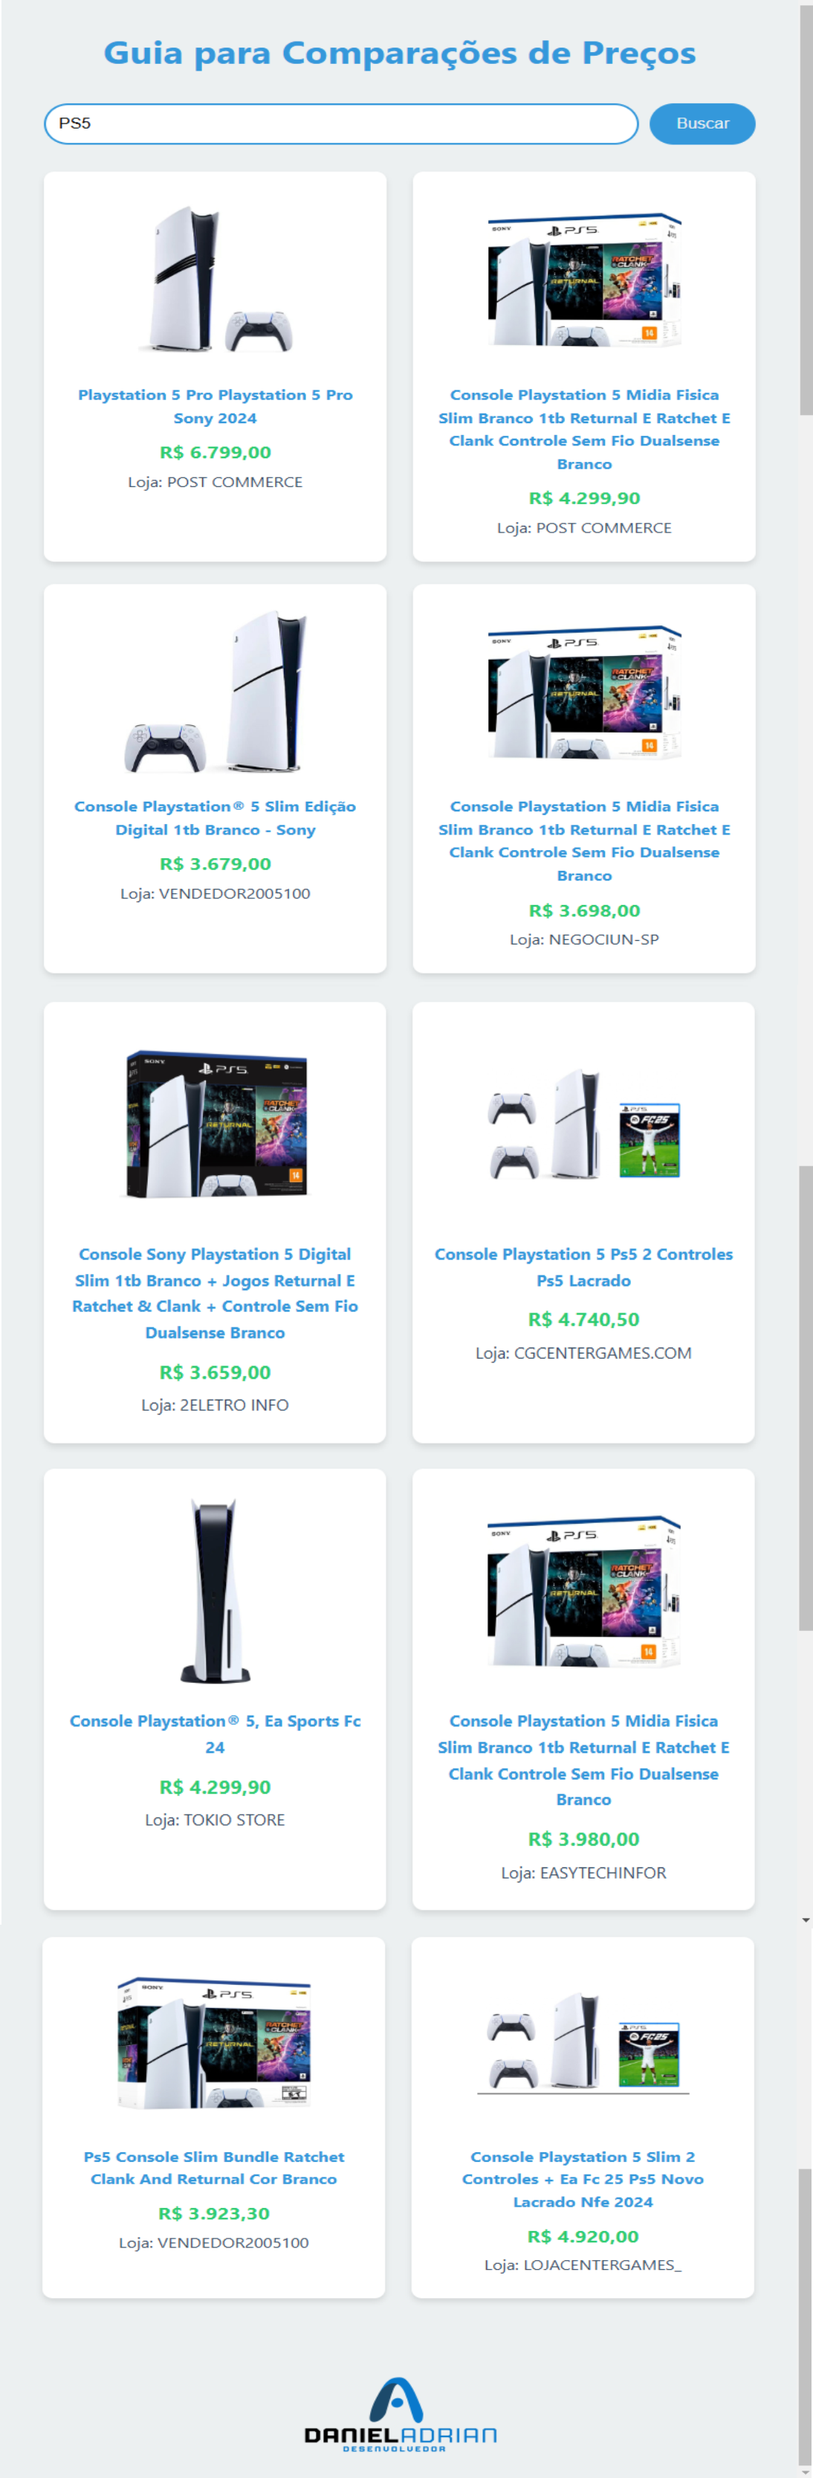
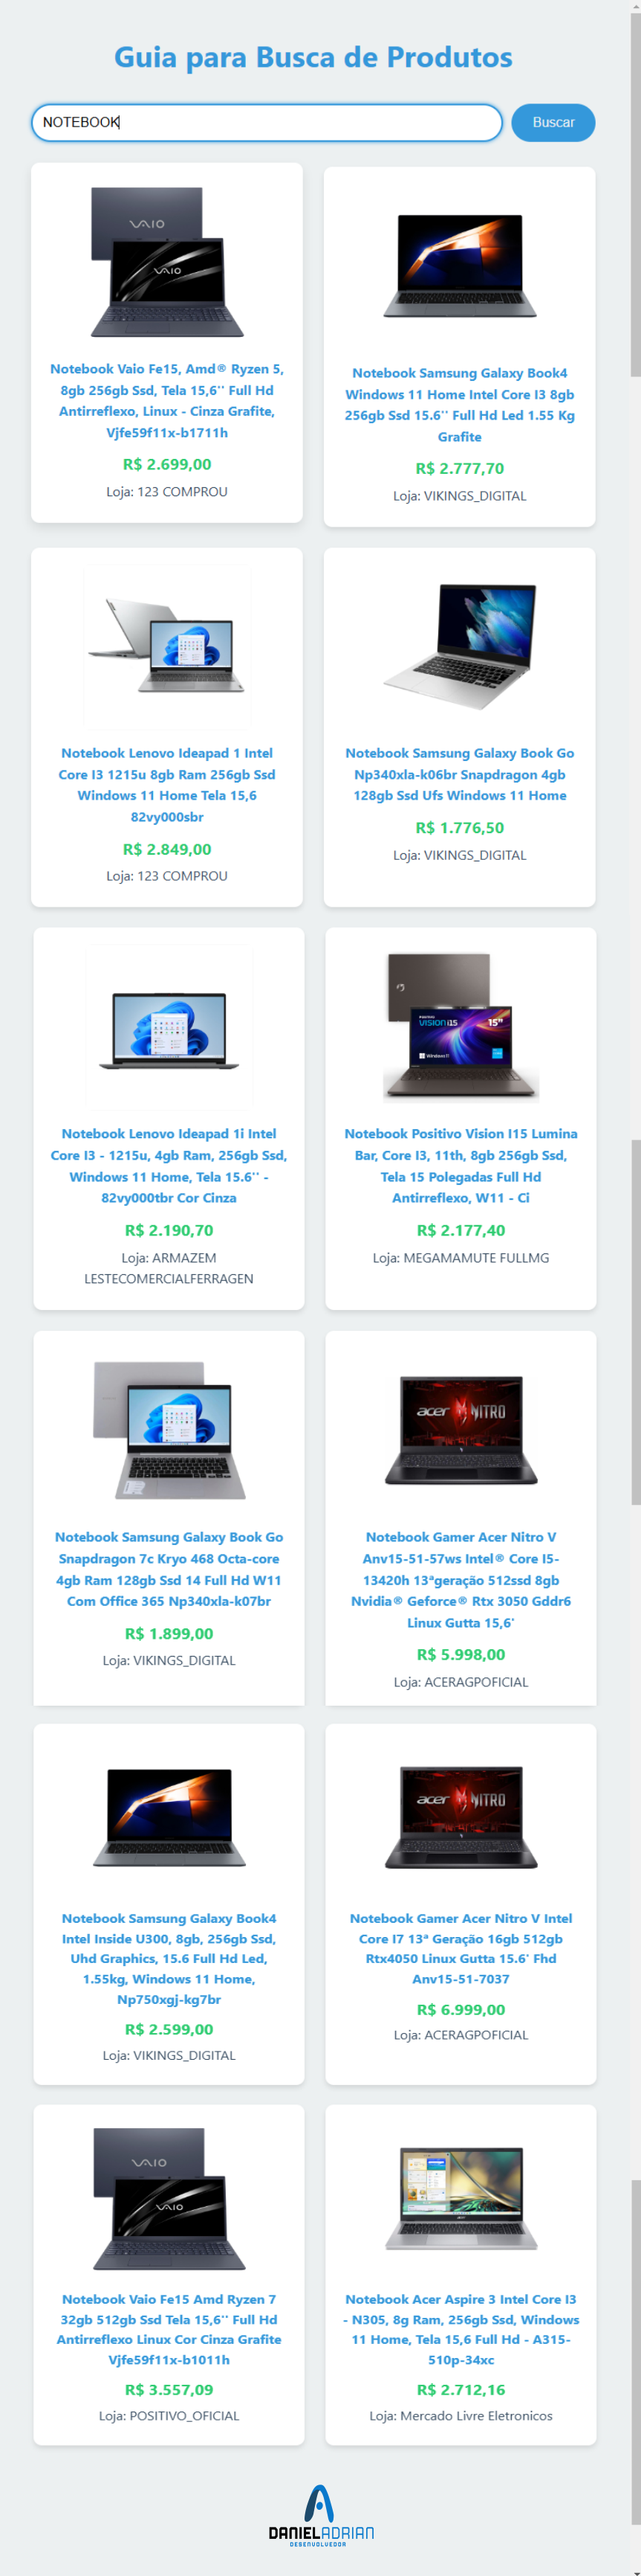
alterei imagem

diff --git a/portifolio adrian/index.html b/portifolio adrian/index.html
@@ -102,10 +102,7 @@
                         <p>Domino o controle de versões e a colaboração eficiente em projetos, garantindo organização,
                         rastreio de mudanças e integração contínua.</p>
                     </div>
-                    <div class="especialidades-box">
-                        <img class="logos" src="imagens/phyton.png" alt="logocss">
-                        <p>Crio aplicações eficientes e funcionais, desde automações até desenvolvimento de sistemas, com foco em soluções inovadores e elegantes.</p>
-                    </div>
+
                 </div>
             </div>
         </section>
@@ -138,7 +135,7 @@
                         <div class="overlay">Cadastro de agendamento</div>
                     </div>
                     <div class="img-port" style="background-image: url(imagens/projeto\ 2.png);">
-                        <div class="overlay">Guia Comparando preços</div>
+                        <div class="overlay">Guia para Busca de Produtos</div>
                     </div>
                     <div class="img-port" style="background-image: url(imagens/projeto\ 3.png);">
                         <div class="overlay">Projeto 3</div>
